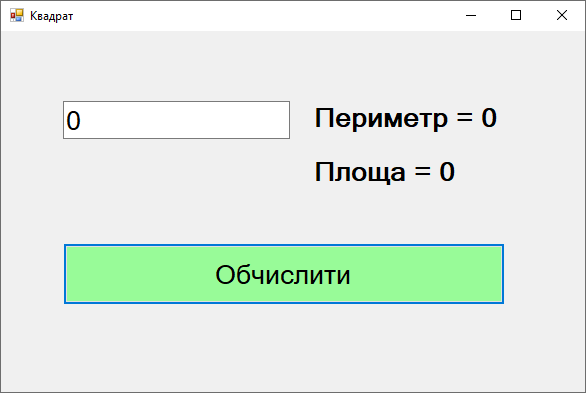
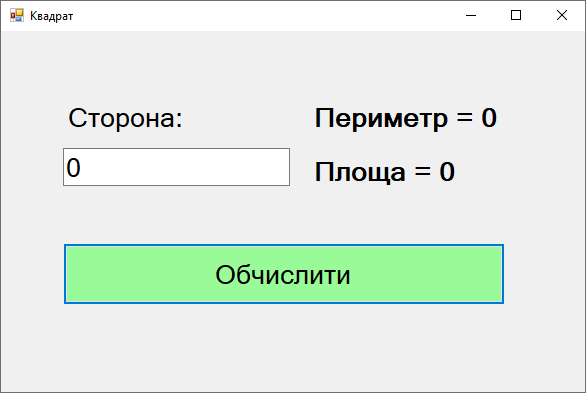
2

Changed region(s): [[0.0922, 0.2748, 0.3072, 0.3359], [0.0922, 0.3969, 0.1536, 0.458]]

diff --git a/tasks_source_code/04_Lesson_01/Form1.Designer.cs b/tasks_source_code/04_Lesson_01/Form1.Designer.cs
@@ -30,8 +30,9 @@
         {
             this.btn_Calculate = new System.Windows.Forms.Button();
             this.lb_Perimeter = new System.Windows.Forms.Label();
-            this.tb_Input = new System.Windows.Forms.TextBox();
             this.lb_Square = new System.Windows.Forms.Label();
+            this.tb_Input = new System.Windows.Forms.TextBox();
+            this.label1 = new System.Windows.Forms.Label();
             this.SuspendLayout();
             // 
             // btn_Calculate
@@ -54,14 +55,7 @@
             this.lb_Perimeter.Size = new System.Drawing.Size(197, 31);
             this.lb_Perimeter.TabIndex = 2;
             this.lb_Perimeter.Text = "Периметр = 0";
-            // 
-            // tb_Input
-            // 
-            this.tb_Input.Location = new System.Drawing.Point(62, 70);
-            this.tb_Input.Name = "tb_Input";
-            this.tb_Input.Size = new System.Drawing.Size(227, 38);
-            this.tb_Input.TabIndex = 3;
-            this.tb_Input.Text = "0";
+            this.lb_Perimeter.Click += new System.EventHandler(this.lb_Perimeter_Click);
             // 
             // lb_Square
             // 
@@ -72,12 +66,32 @@
             this.lb_Square.Size = new System.Drawing.Size(155, 31);
             this.lb_Square.TabIndex = 2;
             this.lb_Square.Text = "Площа = 0";
+            this.lb_Square.Click += new System.EventHandler(this.lb_Square_Click);
+            // 
+            // tb_Input
+            // 
+            this.tb_Input.Location = new System.Drawing.Point(62, 117);
+            this.tb_Input.Name = "tb_Input";
+            this.tb_Input.Size = new System.Drawing.Size(227, 38);
+            this.tb_Input.TabIndex = 3;
+            this.tb_Input.Text = "0";
+            this.tb_Input.TextChanged += new System.EventHandler(this.tb_Input_TextChanged);
+            // 
+            // label1
+            // 
+            this.label1.AutoSize = true;
+            this.label1.Location = new System.Drawing.Point(61, 70);
+            this.label1.Name = "label1";
+            this.label1.Size = new System.Drawing.Size(129, 31);
+            this.label1.TabIndex = 4;
+            this.label1.Text = "Сторона:";
             // 
             // Form1
             // 
             this.AutoScaleMode = System.Windows.Forms.AutoScaleMode.None;
             this.BackgroundImageLayout = System.Windows.Forms.ImageLayout.None;
             this.ClientSize = new System.Drawing.Size(584, 361);
+            this.Controls.Add(this.label1);
             this.Controls.Add(this.tb_Input);
             this.Controls.Add(this.lb_Square);
             this.Controls.Add(this.lb_Perimeter);
@@ -94,10 +108,12 @@
         }
 
         #endregion
+
         private System.Windows.Forms.Button btn_Calculate;
         private System.Windows.Forms.Label lb_Perimeter;
-        private System.Windows.Forms.TextBox tb_Input;
         private System.Windows.Forms.Label lb_Square;
+        private System.Windows.Forms.TextBox tb_Input;
+        private System.Windows.Forms.Label label1;
     }
 }
 

diff --git a/tasks_source_code/04_Lesson_01/Form1.cs b/tasks_source_code/04_Lesson_01/Form1.cs
@@ -24,5 +24,20 @@ namespace WindowsApplication1
             lb_Perimeter.Text = "Периметр = " + P.ToString("#.##");
             lb_Square.Text = "Площа = " + S.ToString("#.##");
         }
+
+        private void lb_Perimeter_Click(object sender, EventArgs e)
+        {
+
+        }
+
+        private void lb_Square_Click(object sender, EventArgs e)
+        {
+
+        }
+
+        private void tb_Input_TextChanged(object sender, EventArgs e)
+        {
+
+        }
     }
 }
